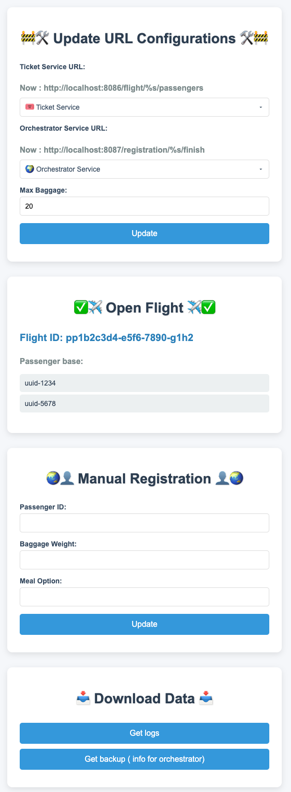
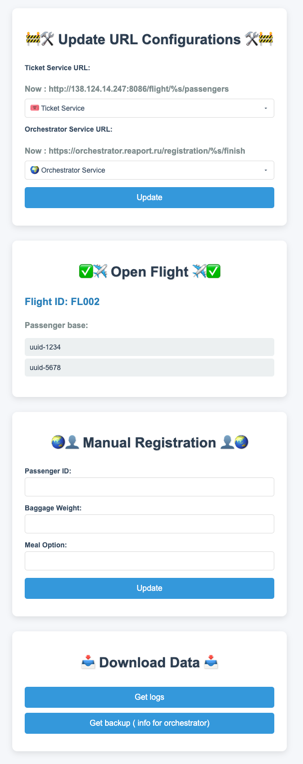
feat: update README.md

Changed region(s): [[0.0619, 0.0301, 0.9278, 0.5118], [0.0619, 0.5419, 0.9278, 0.8128], [0.0619, 0.8429, 0.9278, 0.9935]]

diff --git a/README.md b/README.md
@@ -1,33 +1,81 @@
 # ✈ Модуль регистрации пассажиров на рейс
-[![Swagger](https://img.shields.io/badge/Swagger-Docs-brightgreen?logo=swagger)](https://github.com/reaport/docs/tree/feat/Register)
-[![GoogleDocs](https://img.shields.io/badge/GoogleDocs-Docs-blue?logo=googleDocs)](https://docs.google.com/document/d/1-A99pLnf-T3KJgUowspAIestsUUSzbDQ0Sfr5KvSmdI/edit?tab=t.bpkqrrz6nfsl)
+[![Swagger](https://img.shields.io/badge/Swagger-brightgreen?logo=swagger)](https://docs.reaport.ru/?urls.primaryName=register#/default/post_passenger)
 
-Модуль для регистрации пассажиров с выбором питания и сдачей багажа.
+Данный модуль является ключевым элементом системы автоматизированной регистрации пассажиров на авиарейсы в проекте **REAPORT**. Он предоставляет функциональность для регистрации пассажиров с возможностью выбора или изменения типа питания, а также сдачи багажа с контролем его веса. После завершения регистрации информация о багаже и питании передается оркестратору аэропорта для дальнейшей обработки.
 
 ---
 
-## 📋 Описание
+## 📋 Функциональные возможности:
 
-- **Время регистрации**: Открытие за **M минут**, закрытие за **P минут** до вылета.
-- **Условия**: Только для пассажиров с билетом на рейс, доступного для регистрации.
-- **Функции**:
-    - Смена типа питания.
-    - Сдача багажа с учётом веса (есть ограничения по весу).
----
+- **Регистрация пассажиров**:
+  - Регистрация доступна только для пассажиров с действующими билетами на открытый для регистрации рейс.
+  - Возможность смены питания доступна только до закрытия регистрации. Если предпочтения по питанию не указаны, используется вариант по умолчанию из модуля покупки билетов.
+  - Модуль позволяет пассажирам сдать багаж, при этом вес багажа не должен превышать установленный авиакомпанией лимит — **20 кг**.
+  - В случае превышения допустимого веса система уведомляет пассажира и предлагает скорректировать вес багажа.
+  - Во время регистрации пассажир получает все необходимые сведения о рейсе, включая:
+    - Название рейса.
+    - Время начала посадки.
+    - Время вылета.
+    - Место в самолёте, указанное в билете.
+
+- **Получение сведений о рейсе**:
+  - Основные сведения о рейсе запрашиваются у модуля табло.
+  - Система автоматически получает информацию о пассажирах, купивших билеты на данный рейс, с помощью запроса к модулю покупки билетов.
+
+- **Отправка данных оркестратору**:
+  - По завершении регистрации, информация о количестве и типах выбранного питания, а также данные о сданном багаже передаются оркестратору аэропорта.
+  - Оркестратор получает данные в виде структурированного отчета для организации дальнейших процессов по подготовке рейса.
+  - Все отчёты сохраняются в файл для сохранения целостности данных в случае потери связи с оркестратором
+
+## 🔗🤝 Интеграция 
+![img_1.png](img_1.png)
 
 ## 🚀 Установка и запуск
 
-Для запуска приложения можно возпользоваться командами:
+Для локального запуска приложения можно воспользоваться командами:
 * ``docker-compose up``
   
-Без docker:
+Варианты без docker:
 * ``make run``
 * ``go run cmd/main.go``
 
-#### Mock - сервисы :
+#### Mock - сервисы (эмулирующие работы интеграционных сервисов) :
 *  ``make run_ticket`` покупка билетов
 *  ``make run_orchestrator`` оркестратор
 
+## 🌍 Развертывание 
+
+Модуль регистрации пассажиров развернут с использованием контейнерной архитектуры. Для этого был создан **Docker Compose** файл, который позволяет запускать сервис вместе с эмулирующими интеграциями и необходимыми внешними сервисами. Благодаря этому подходу, система легко масштабируется и готова к быстрому развёртыванию в любой среде.
+
+### 📦 Инструменты и технологии
+
+- **Docker Compose** — для упрощенного управления контейнерами и развертывания всех зависимостей сервиса регистрации.
+- **Dockploy** — для автоматизации процесса деплоя, что позволяет легко управлять версиями и обновлениями сервиса.
+- **Nginx** — для обеспечения работы сервиса по протоколу HTTPS с привязкой домена.
+- **Let's Encrypt** — для автоматической генерации SSL-сертификатов, чтобы обеспечить безопасное соединение через HTTPS.
+
+### 🖥 Домен и доступ
+
+Модуль регистрации доступен по домену:
+
+- **Домен**: `https://register.reaport.ru`
+- **Протокол**: HTTPS для безопасности данных.
+
+### 🛠⚙ Административная панель
+
+Для управления сервисом регистрации и мониторинга его состояния предусмотрена административная панель, которая доступна по следующему адресу:
+
+- **Адрес админки**: [https://register.reaport.ru/data](https://register.reaport.ru/data)
+
+Панель предоставляет удобный интерфейс для отслеживания и изменения ключевых метрик работы модуля:
+
+* 🔗 Изменение URL сервисов ticket и orchestrator (prod и mock)
+* 📊 Просмотр актуальных для регистрации рейсов с пассажирами с действующими билетами
+* 👤 Ручная регистрация на рейс
+* 🌐 Загрузка логов программы
+* ✈ Загрузка отчета о завершенных рейсах (backup связи с оркестратором)
+
+![img.png](img.png)
 
 ### ⚙ Конфигурация 
 `Файл: config.json`
@@ -37,26 +85,142 @@
   "mealOption":  ["Standard", "Vegetarian", "Vegan", "Gluten-Free"],
   "maxBaggage" : 20.0,
   "urlTicketService": "https://tickets.reaport.ru/flight/%s/passengers",
-  "urlOrchestrator": "http://orchestrator:8087/registration/%s/finish",
-  "mockUrlTicketService": "http://ticket:8086/flight/%s/passengers",
-  "mockUrlOrchestrator": "http://orchestrator:8087/registration/%s/finish"
+  "urlOrchestrator": "https://orchestrator.reaport.ru/registration/%s/finish",
+  "mockUrlTicketService": "http://138.124.14.247:8086/flight/%s/passengers",
+  "mockUrlOrchestrator": "http://138.124.14.247:8087/registration/%s/finish"
 }
 ```
 
-* `mealOption` - типы питания(динамическое изменение)
+* `mealOption` - Доступные типы питания, которые можно сменить до окончания регистрации
 * `maxBaggage` - Максимально возможный размер багажа
-* `urlTicketService` - url модуля покупки билетов
-* `urlOrchestrator` - url модуля оркестратора (ожидание актуального url)
-*  `mockUrlTicketService` - url mock- модуля покупки билетов
-* `mockUrlOrchestrator` - url mock -модуля оркестратора
+* `urlTicketService` - URL модуля покупки билетов
+* `urlOrchestrator` - URL модуля оркестратора 
+*  `mockUrlTicketService` - URL mock- модуля покупки билетов
+* `mockUrlOrchestrator` - URL mock -модуля оркестратора
+
+## 🛫 Описание API 
+
+API модуля регистрации пассажиров предоставляет функциональность для взаимодействия с системой регистрации на рейс. Ниже представлено описание ключевых конечных точек API, используемых для регистрации пассажиров и получения информации о рейсах.
+
+### 🌐 Основные сведения API
+
+- **Версия API**: 1.0.0
+- **Описание**: API для модуля регистрации пассажиров на рейс
+- **Протокол**: HTTPS
+- **Домен**: `https://register.reaport.ru/`
+
+### 📋 Таблица методов API
+
+| **Метод** | **Эндпоинт**                | **Описание**                                                   | **Ответы**                                                                                           |
+|-----------|-----------------------------|----------------------------------------------------------------|------------------------------------------------------------------------------------------------------|
+| `POST`    | `/passenger`                | Регистрация пассажира на рейс, получение информации о рейсе     | `200`: Успешная регистрация, `400`: Неверный запрос, `404`: Пассажир не найден, `500`: Ошибка сервера |
+| `POST`    | `/flights`                  | Получение информации о рейсе для регистрации                    | `200`: Рейс успешно зарегистрирован, `400`: Неверный запрос, `500`: Ошибка сервера, `502`: Ошибка получения данных о пассажирах на рейс |
+
+---
+
+### ✈ Методы API
+
+#### 1. `POST /passenger`
+
+Эндпоинт для регистрации пассажира на рейс. Модуль использует данные пассажира и информацию о его багаже и предпочтениях питания для завершения регистрации.
+
+- **Описание**: Регистрация пассажира с указанием веса багажа и выбора питания.
+- **Параметры запроса**:
+  - `passengerId` (UUID) — Уникальный идентификатор пассажира.
+  - `baggageWeight` (float) — Вес багажа в кг (макс. 20 кг).
+  - `mealOption` (string) — Тип питания (стандартное, вегетарианское, веганское, безглютеновое).
+
+- **Пример запроса**:
+    ```json
+    {
+      "passengerId": "123e4567-e89b-12d3-a456-426614174000",
+      "baggageWeight": 12.5,
+      "mealOption": "Vegetarian"
+    }
+    ```
+
+- **Ответы**:
+  - `200 OK` — Успешная регистрация пассажира.
+    ```json
+    {
+      "flightName": "SU-1234",
+      "departureTime": "2023-10-15T14:30:00Z",
+      "startPlantingTime": "2023-10-15T14:10:00Z",
+      "seat": "A2"
+    }
+    ```
+  - `400 Bad Request` — Неверный запрос (ошибка валидации или превышение веса багажа).
+  - `404 Not Found` — Пассажир не найден.
+  - `500 Internal Server Error` — Внутренняя ошибка сервера.
+
+#### 2. `POST /flights`
+
+Эндпоинт для получения информации о рейсе, который доступен для регистрации. Этот метод запрашивает данные о рейсе у модуля табло и возвращает необходимые сведения для регистрации.
+
+- **Описание**: Получение данных о рейсе, таких как время вылета, время окончания регистрации, время начала посадки и рассадка пассажиров.
+- **Параметры запроса**:
+  - `flightId` (UUID) — Уникальный идентификатор рейса.
+  - `flightName` (string) — Название рейса.
+  - `endRegisterTime` (date-time) — Время окончания регистрации.
+  - `departureTime` (date-time) — Время вылета.
+  - `startPlantingTime` (date-time) — Время начала посадки.
+  - `seatsAircraft` (array) — Массив мест в самолёте (номера мест и класс).
+
+- **Пример запроса**:
+    ```json
+    {
+      "flightId": "a1b2c3d4-e5f6-7890-g1h2-i3j4k5l6m7n8",
+      "flightName": "SU-1234",
+      "endRegisterTime": "2023-10-15T13:30:00Z",
+      "departureTime": "2023-10-15T14:30:00Z",
+      "startPlantingTime": "2023-10-15T14:10:00Z",
+      "seatsAircraft": [
+        {"seatNumber": "1A", "seatClass": "business"},
+        {"seatNumber": "1B", "seatClass": "business"},
+        {"seatNumber": "2A", "seatClass": "economy"},
+        {"seatNumber": "2B", "seatClass": "economy"}
+      ]
+    }
+    ```
+
+- **Ответы**:
+  - `200 OK` — Рейс успешно зарегистрирован.
+  - `400 Bad Request` — Неверный запрос (ошибка валидации).
+  - `500 Internal Server Error` — Внутренняя ошибка сервера.
+  - `502 Bad Gateway` — Ошибка получения пассажиров на рейс из модуля покупки билетов.
+
+---
+
+### 📑 Форматы данных
+
+#### Регистрация пассажира — `RegisterPassengerRequest`
+
+| Поле           | Тип        | Описание                                                                 |
+|----------------|------------|--------------------------------------------------------------------------|
+| `passengerId`  | `string`   | Уникальный идентификатор пассажира (UUID)                                |
+| `baggageWeight`| `float`    | Вес багажа (в кг), не более 20 кг                                        |
+| `mealOption`   | `string`   | Тип питания: "Standard", "Vegetarian", "Vegan", "Gluten-Free"             |
+
+#### Ответ на регистрацию — `RegisterPassengerResponse`
+
+| Поле                | Тип        | Описание                                      |
+|---------------------|------------|-----------------------------------------------|
+| `flightName`        | `string`   | Название рейса                                |
+| `departureTime`     | `string`   | Время вылета (формат `date-time`)             |
+| `startPlantingTime` | `string`   | Время начала посадки (формат `date-time`)     |
+| `seat`              | `string`   | Место пассажира в самолёте                    |
+
+#### Запрос информации о рейсе — `FlightStatusRequest`
+
+| Поле               | Тип        | Описание                                      |
+|--------------------|------------|-----------------------------------------------|
+| `flightId`         | `string`   | Уникальный идентификатор рейса (UUID)         |
+| `flightName`       | `string`   | Название рейса (номер)                        |
+| `endRegisterTime`  | `string`   | Время окончания регистрации (формат `date-time`) |
+| `departureTime`    | `string`   | Время вылета (формат `date-time`)             |
+| `startPlantingTime`| `string`   | Время начала посадки (формат `date-time`)     |
+| `seatsAircraft`    | `array`    | Список мест в самолёте                        |
 
 
-### 🛠Админка
-* ⚖ Настройка максимально допустимого веса багажа.
-* 🔗 Изменение URL сервисов (ticket и orchestrator).
-* 👤 Ручная регистрация на рейс.
-* 📊 Просмотр рейсов.
-
-![img.png](img.png)
 
 
